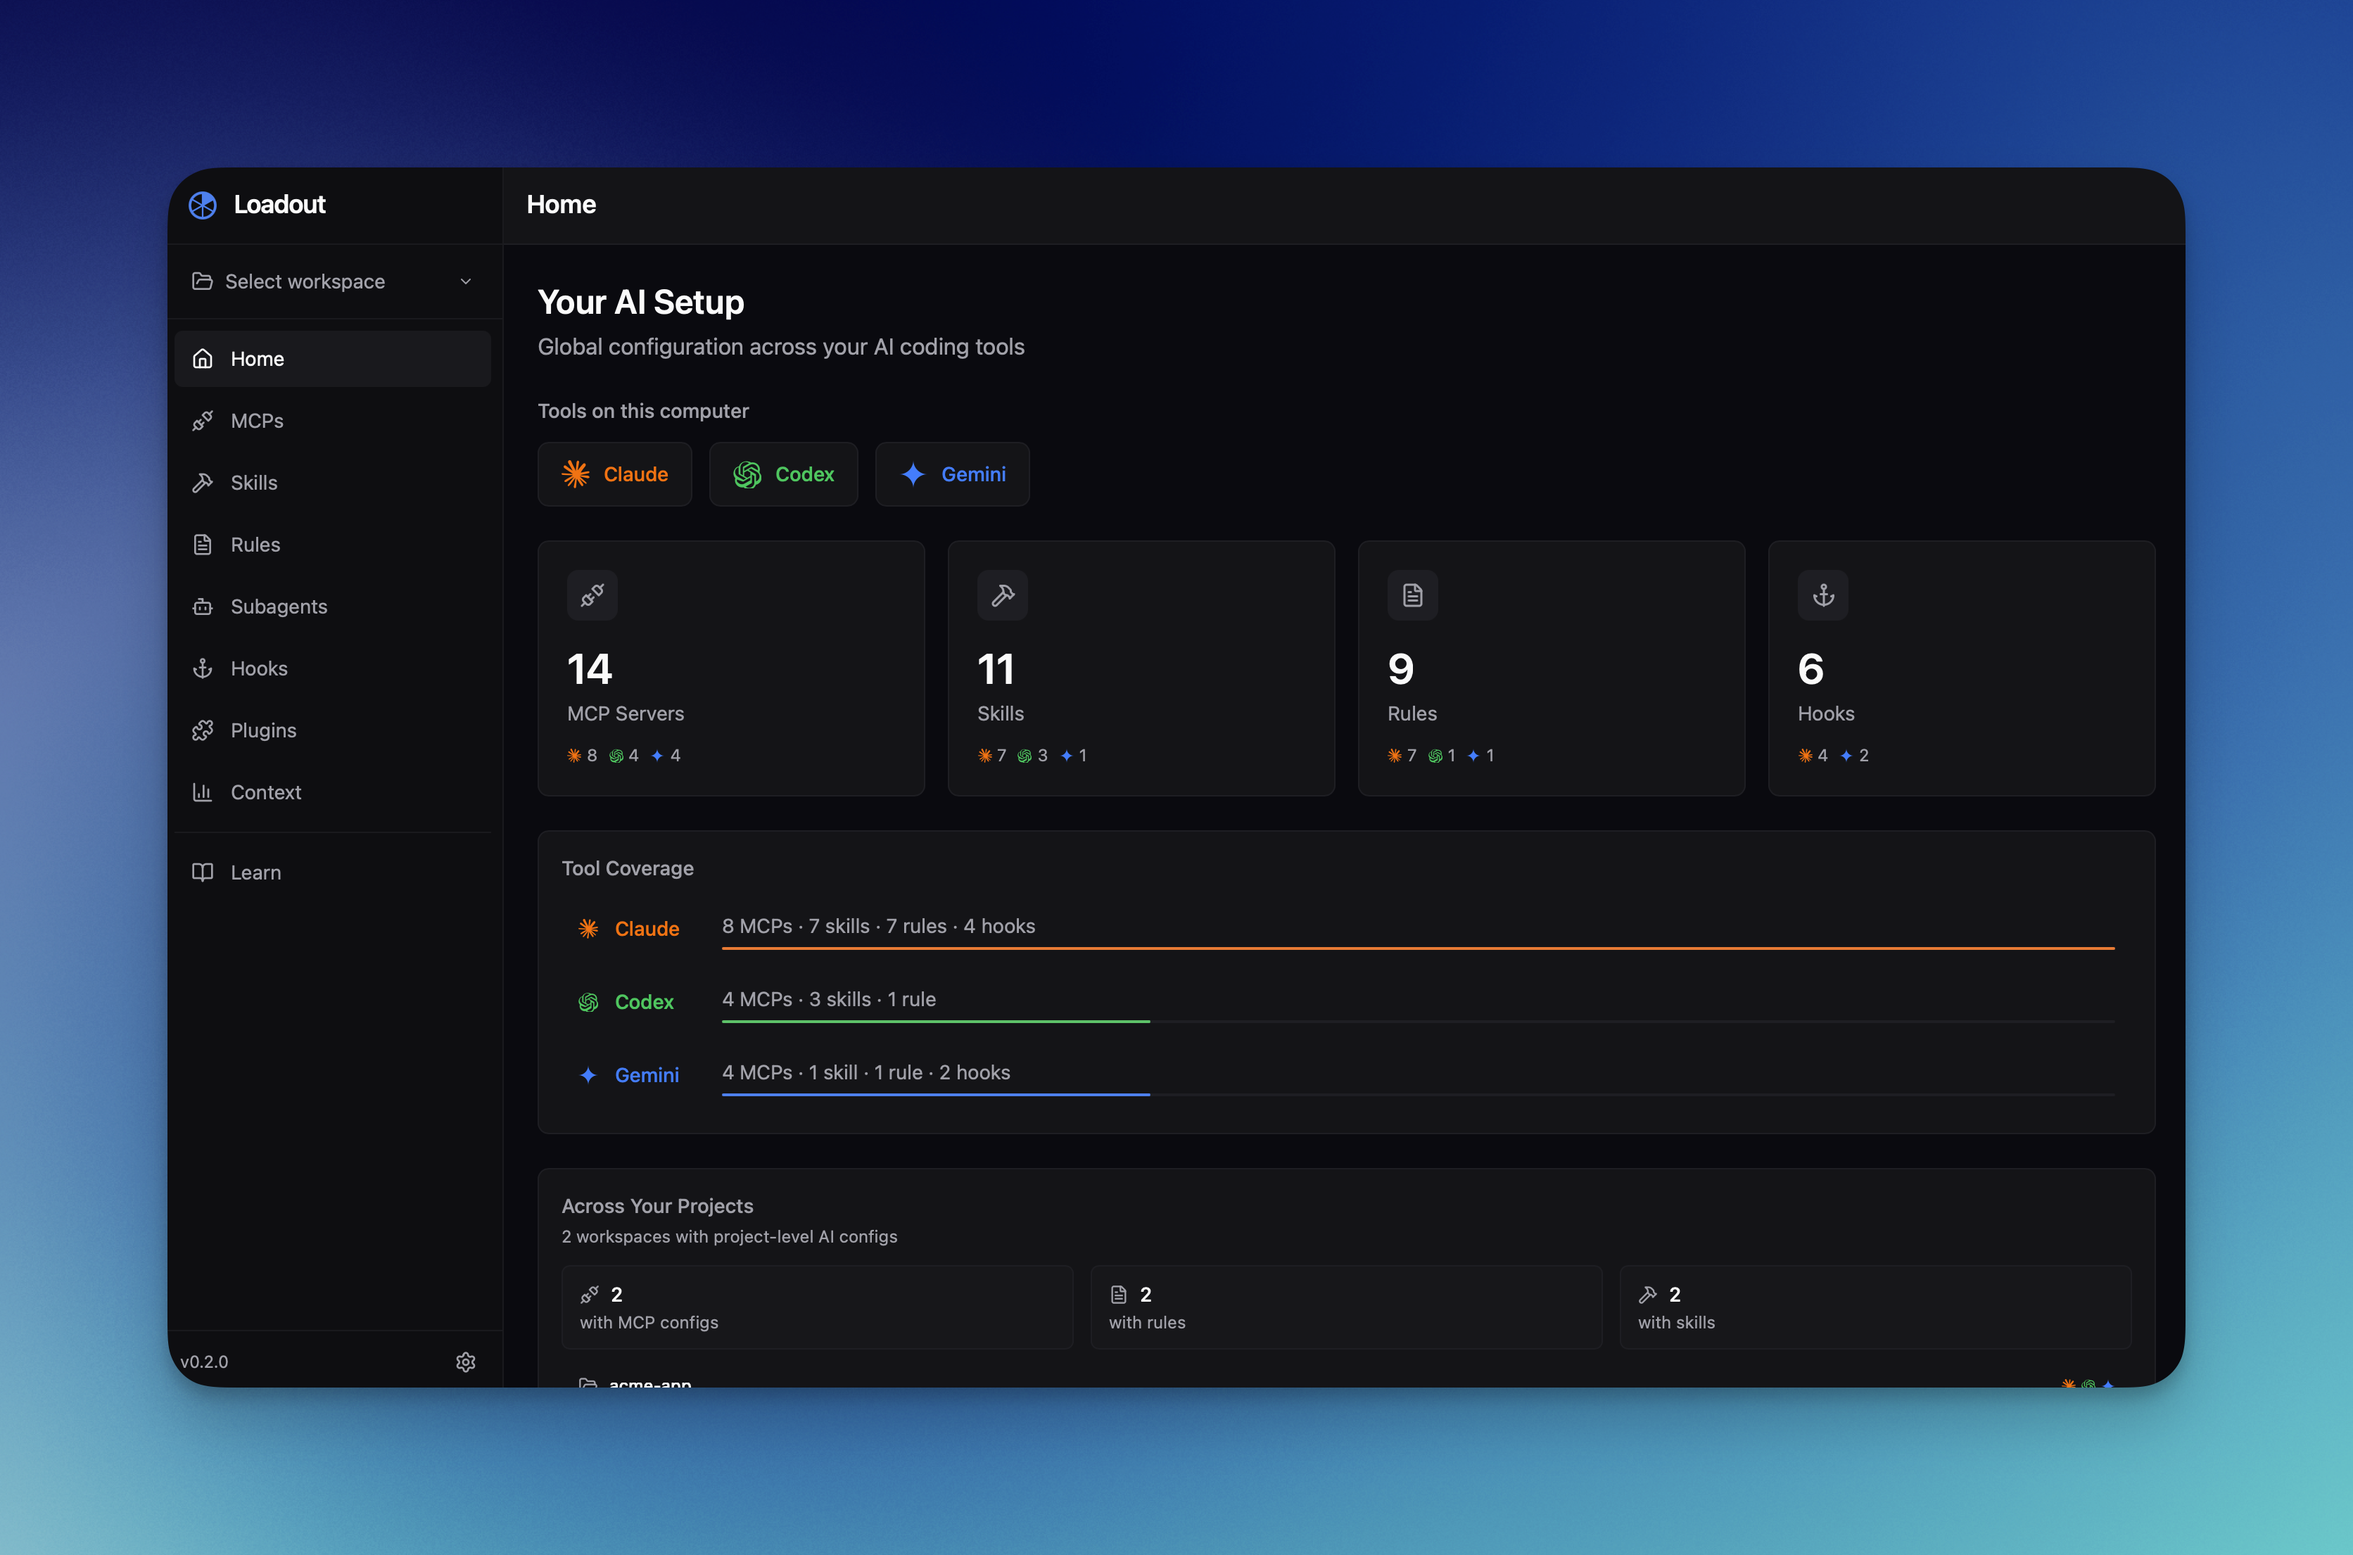
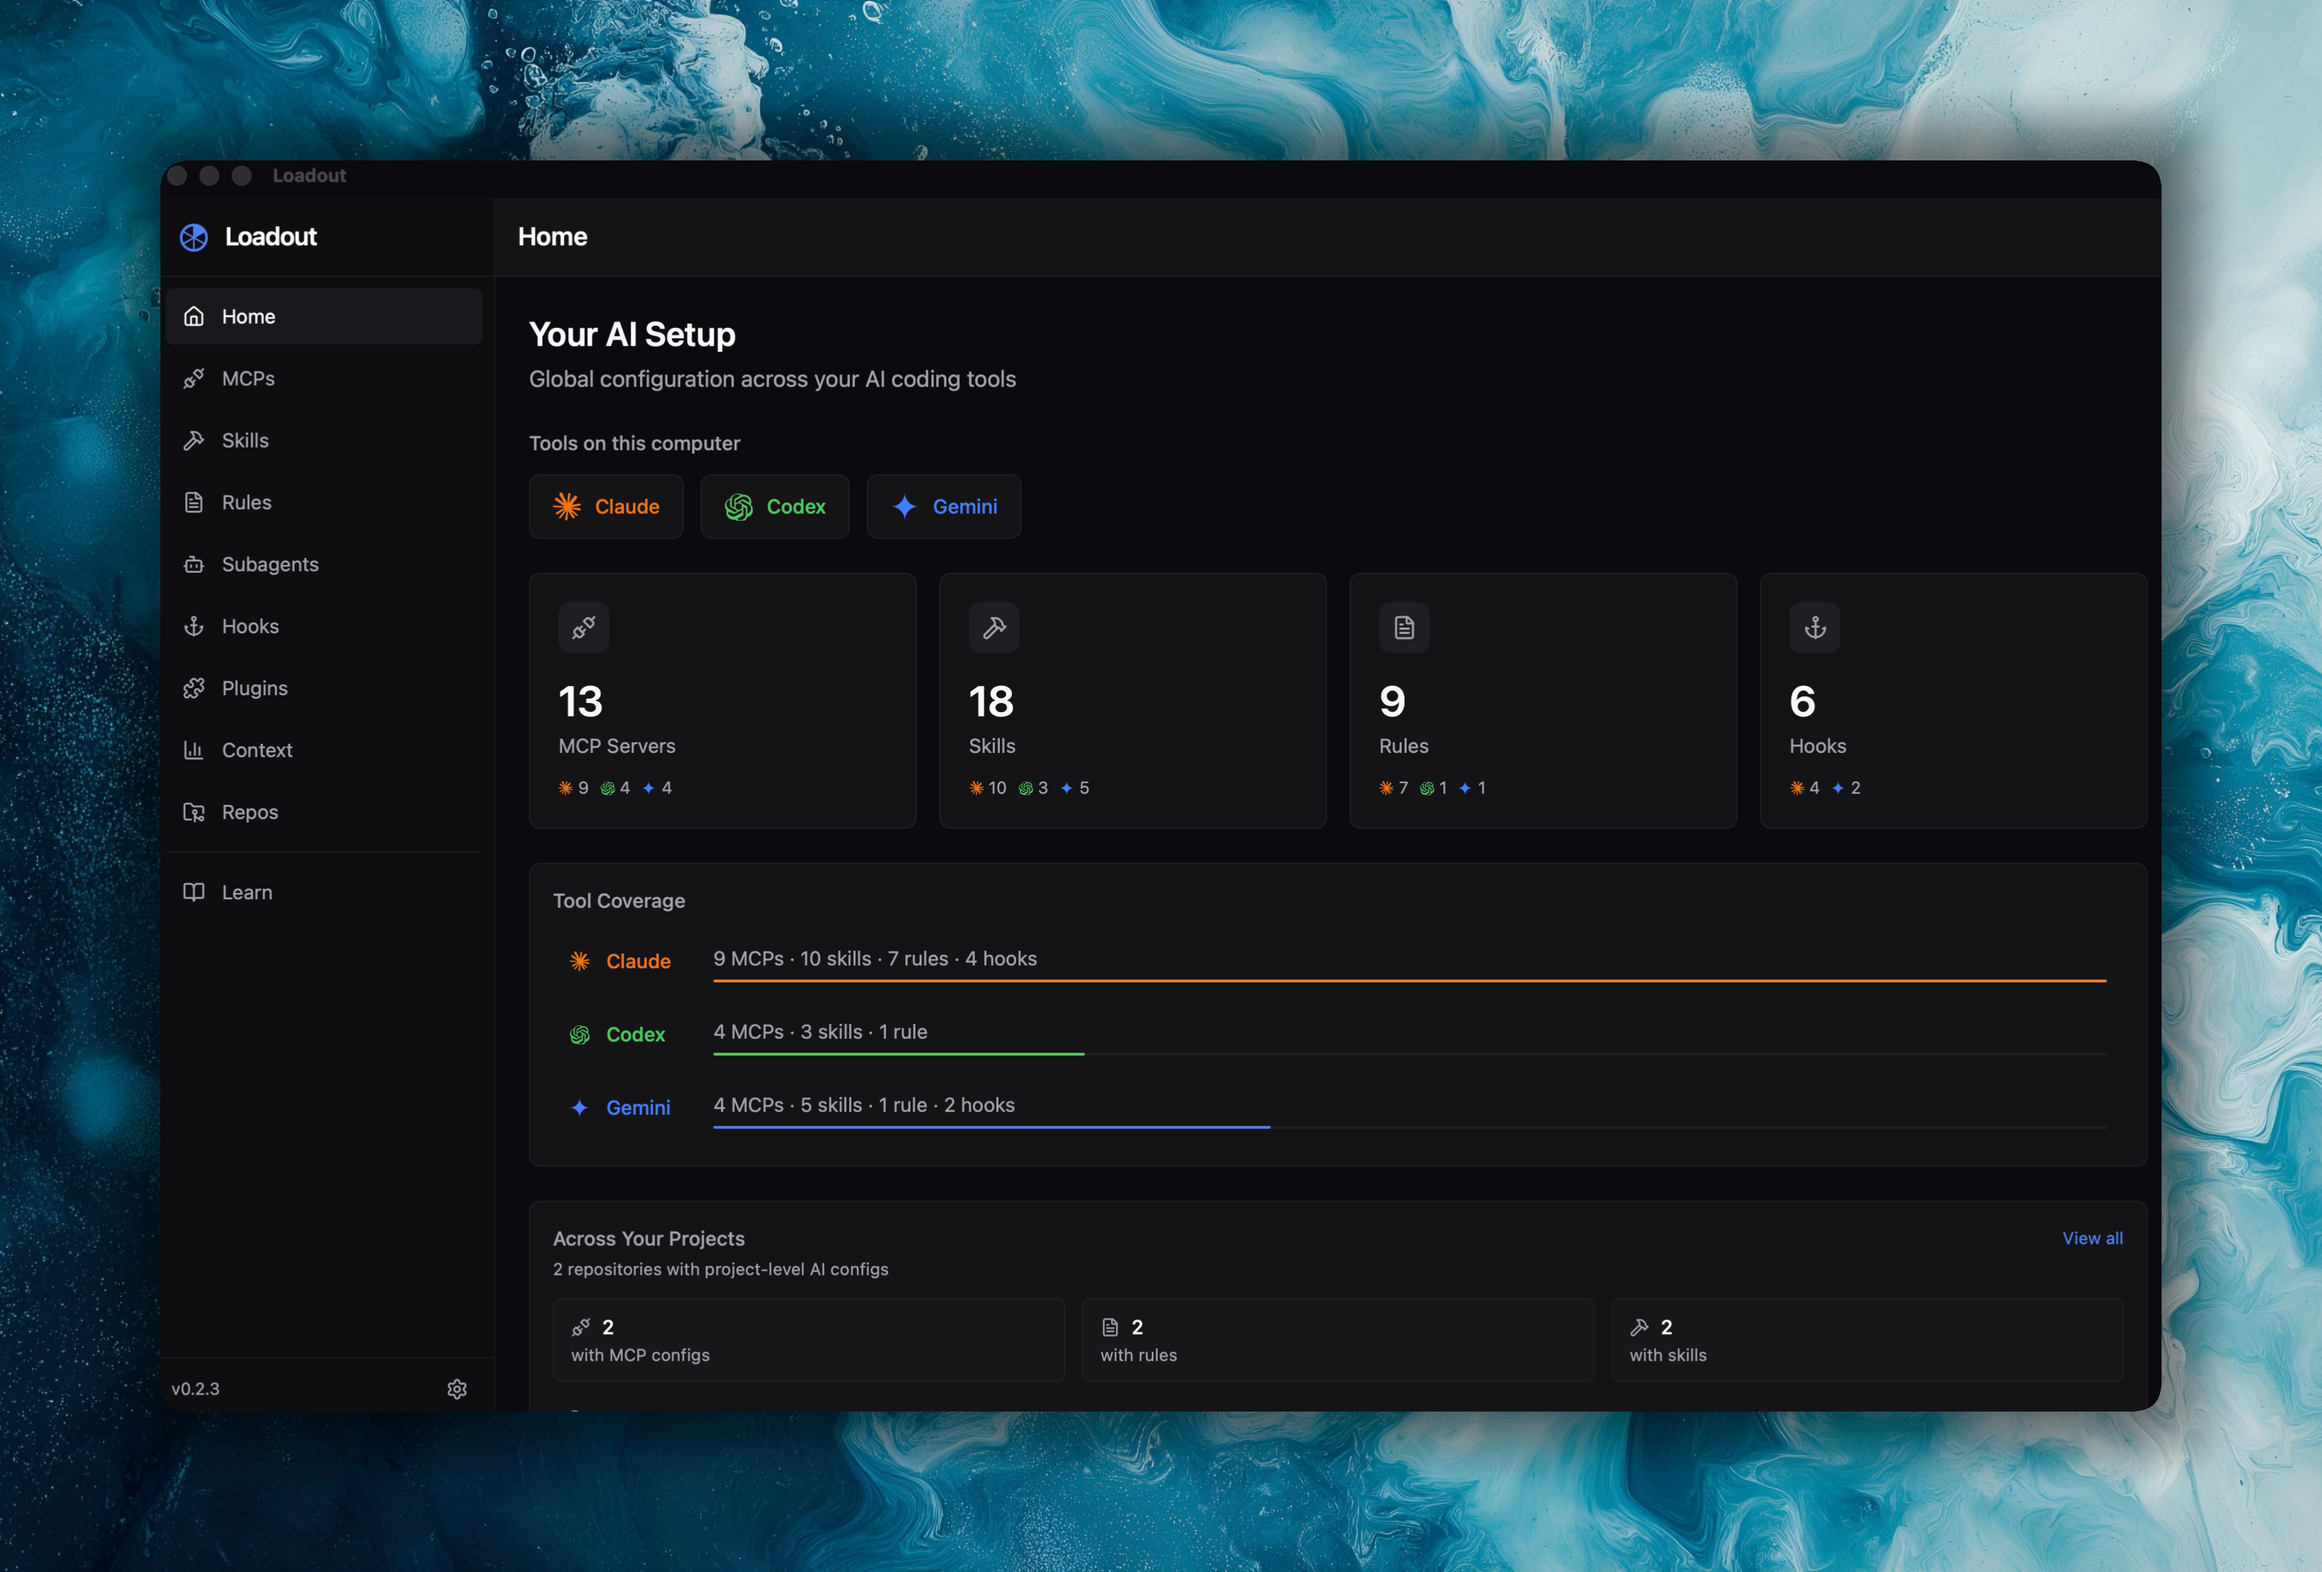
feat: add Repos feature tab to landing page and update hero screenshot
Add Repos as a new tabbed feature (after Skills Management) on the docs
landing page with screenshot. Replace hero screenshot and increase its
max-width from 900px to 1200px.

diff --git a/docs/index.html b/docs/index.html
@@ -272,7 +272,7 @@
       position: relative;
       z-index: 2;
       margin-top: 64px;
-      max-width: 900px;
+      max-width: 1200px;
       width: 100%;
       animation: fadeInUp 0.8s ease-out 0.6s both;
     }
@@ -885,13 +885,21 @@
 
         <button class="showcase-tab" data-tab="3">
           <div class="showcase-tab-title">
+            <svg viewBox="0 0 24 24" fill="none" stroke="#3B82F6" stroke-width="2" stroke-linecap="round" stroke-linejoin="round"><path d="M15 22v-4a4.8 4.8 0 0 0-1-3.5c3 0 6-2 6-5.5.08-1.25-.27-2.48-1-3.5.28-1.15.28-2.35 0-3.5 0 0-1 0-3 1.5-2.64-.5-5.36-.5-8 0C6 2 5 2 5 2c-.3 1.15-.3 2.35 0 3.5A5.403 5.403 0 0 0 4 9c0 3.5 3 5.5 6 5.5-.39.49-.68 1.05-.85 1.65-.17.6-.22 1.23-.15 1.85v4"/><path d="M9 18c-4.51 2-5-2-7-2"/></svg>
+            Repos
+          </div>
+          <div class="showcase-tab-desc">Browse all codebases on your machine with AI tool configs. See MCPs, skills, rules, and hooks at project level.</div>
+        </button>
+
+        <button class="showcase-tab" data-tab="4">
+          <div class="showcase-tab-title">
             <svg viewBox="0 0 24 24" fill="none" stroke="#3B82F6" stroke-width="2" stroke-linecap="round"><path d="M17 1l4 4-4 4"/><path d="M3 11V9a4 4 0 0 1 4-4h14"/><path d="M7 23l-4-4 4-4"/><path d="M21 13v2a4 4 0 0 1-4 4H3"/></svg>
             Cross-tool Sync
           </div>
           <div class="showcase-tab-desc">Add an MCP or skill to one tool, sync it to all the others in one click. No more copy-pasting configs.</div>
         </button>
 
-        <button class="showcase-tab" data-tab="4">
+        <button class="showcase-tab" data-tab="5">
           <div class="showcase-tab-title">
             <svg viewBox="0 0 24 24" fill="none" stroke="#3B82F6" stroke-width="2" stroke-linecap="round" stroke-linejoin="round"><path d="M3 3v16a2 2 0 0 0 2 2h16"/><path d="M18 17V9"/><path d="M13 17V5"/><path d="M8 17v-3"/></svg>
             Context Budget
@@ -899,7 +907,7 @@
           <div class="showcase-tab-desc">See how many tokens your rules, skills, and MCP definitions consume. Know what's always loaded vs. on-demand.</div>
         </button>
 
-        <button class="showcase-tab" data-tab="5">
+        <button class="showcase-tab" data-tab="6">
           <div class="showcase-tab-title">
             <svg viewBox="0 0 24 24" fill="none" stroke="#3B82F6" stroke-width="2" stroke-linecap="round"><path d="M22 11.08V12a10 10 0 1 1-5.93-9.14"/><polyline points="22 4 12 14.01 9 11.01"/></svg>
             Supported Tools
@@ -907,13 +915,14 @@
           <div class="showcase-tab-desc">10 AI coding tools supported with their config formats and file paths, all auto-detected.</div>
         </button>
 
-        <button class="showcase-tab" data-tab="6">
+        <button class="showcase-tab" data-tab="7">
           <div class="showcase-tab-title">
             <svg viewBox="0 0 24 24" fill="none" stroke="#3B82F6" stroke-width="2" stroke-linecap="round" stroke-linejoin="round"><path d="M12 7v14"/><path d="M3 18a1 1 0 0 1-1-1V4a1 1 0 0 1 1-1h5a4 4 0 0 1 4 4 4 4 0 0 1 4-4h5a1 1 0 0 1 1 1v13a1 1 0 0 1-1 1h-6a3 3 0 0 0-3 3 3 3 0 0 0-3-3z"/></svg>
             Learn
           </div>
           <div class="showcase-tab-desc">Concept cards explaining MCPs, skills, subagents, rules, hooks, plugins, context windows, and scoping.</div>
         </button>
+
       </div>
 
       <!-- Screenshot panel -->
@@ -929,15 +938,18 @@
             <img src="../assets/skills_page.png" alt="Skills Management" loading="lazy">
           </div>
           <div class="showcase-slide" data-slide="3">
-            <img src="../assets/sync_skills_modal.png" alt="Cross-tool Sync" loading="lazy">
+            <img src="../assets/repos_page.png" alt="Repos" loading="lazy">
           </div>
           <div class="showcase-slide" data-slide="4">
-            <img src="../assets/context_page.png" alt="Context Budget" loading="lazy">
+            <img src="../assets/sync_skills_modal.png" alt="Cross-tool Sync" loading="lazy">
           </div>
           <div class="showcase-slide" data-slide="5">
-            <img src="../assets/list_tools_supported.png" alt="Supported Tools" loading="lazy">
+            <img src="../assets/context_page.png" alt="Context Budget" loading="lazy">
           </div>
           <div class="showcase-slide" data-slide="6">
+            <img src="../assets/list_tools_supported.png" alt="Supported Tools" loading="lazy">
+          </div>
+          <div class="showcase-slide" data-slide="7">
             <img src="../assets/learn_page.png" alt="Learn" loading="lazy">
           </div>
         </div>
